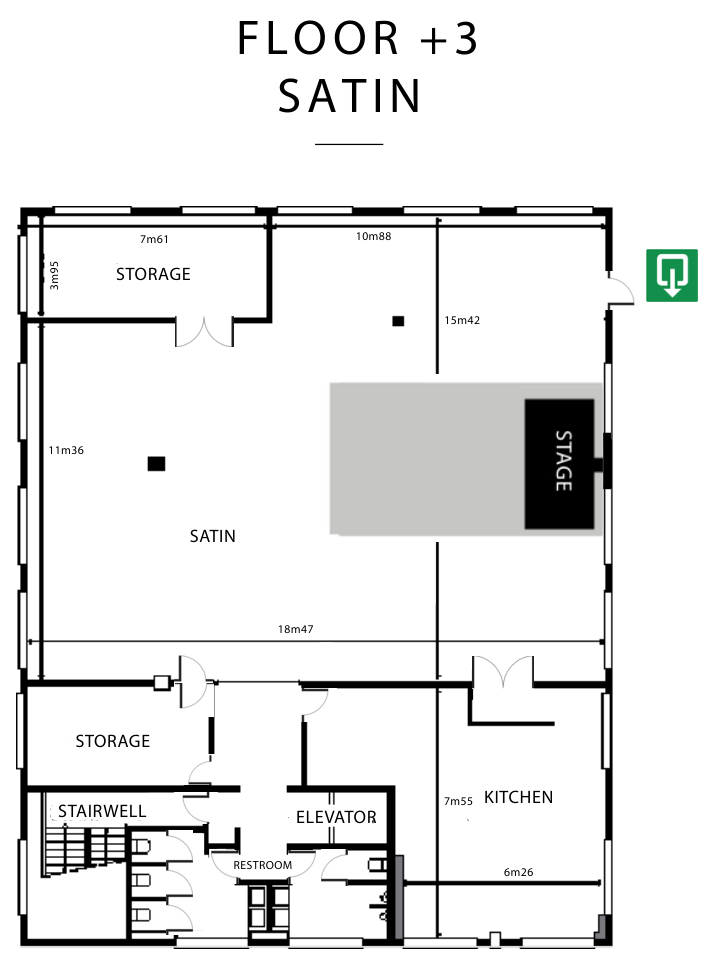
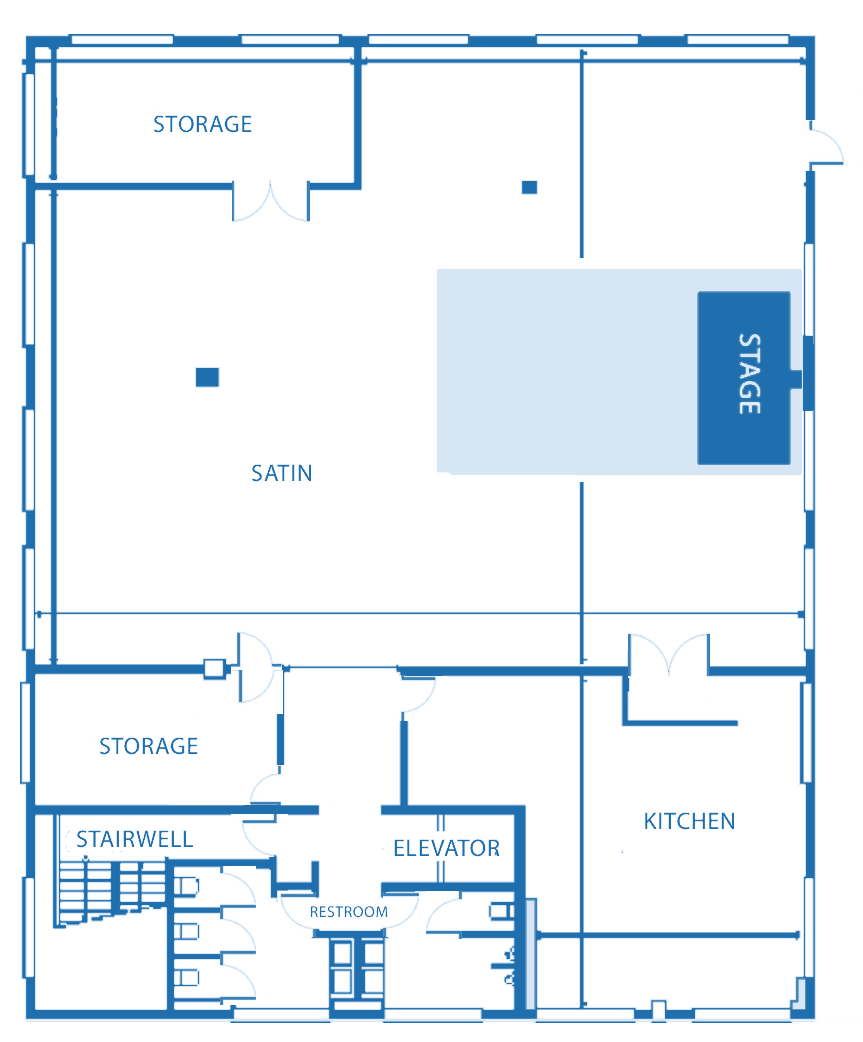
Guide: venue floor plans recolored blue, guest list copy, no laptop line

diff --git a/guide/index.html b/guide/index.html
@@ -61,17 +61,19 @@ ul.plain { padding-left: 20px; margin: 0 0 12px; }
 ul.plain li { margin-bottom: 4px; }
 .note { background: var(--soft); border-radius: 10px; padding: 14px 18px; margin: 12px 0; }
 .tbd { background: var(--tbd); color: var(--tbd-ink); border-radius: 4px; padding: 1px 6px; font-size: .9em; }
-.plans { display: grid; grid-template-columns: 1fr 1fr; gap: 16px; margin: 16px 0; align-items: end; }
+.plans { display: grid; grid-template-columns: 1fr; gap: 20px; margin: 16px 0; }
+.plans figure:last-child img { max-width: 70%; margin: 0 auto; }
 .plans figure { margin: 0; }
-.fp { display: block; width: 100%; height: auto; border: 1px solid var(--line); border-radius: 10px; padding: 10px; background: var(--card); }
-.fp rect, .fp polygon { fill: none; stroke: var(--blue); stroke-width: 4; stroke-linejoin: round; }
-.fp .hl { fill: var(--soft); }
-.fp .stage { fill: var(--blue); }
-.fp text { fill: var(--ink-3); font: 500 22px var(--font); text-anchor: middle; }
-.fp text.big { fill: var(--navy); font-weight: 600; font-size: 26px; }
-.fp text.stg { fill: var(--sheet); font-size: 20px; font-weight: 600; writing-mode: vertical-rl; }
+.plans img { display: block; width: 100%; height: auto; border: 1px solid var(--line); border-radius: 10px; padding: 12px; background: #fff; }
 .plans figcaption { color: var(--ink-2); font-size: .85rem; margin-top: 6px; text-align: center; }
 @media (max-width: 600px) { .plans { grid-template-columns: 1fr; } }
+.label { font-size: 0.75rem; font-weight: 700; letter-spacing: 0.12em; text-transform: uppercase; color: var(--ink-3); margin: 28px 0 4px; }
+.label:first-of-type { margin-top: 0; }
+.people { list-style: none; padding: 0; margin: 0; display: grid; grid-template-columns: 1fr 1fr; column-gap: 28px; }
+.people li { padding: 10px 0; border-bottom: 1px solid var(--line); }
+.people b { display: block; font-weight: 600; }
+.people span { color: var(--ink-2); font-size: 0.88rem; }
+@media (max-width: 600px) { .people { grid-template-columns: 1fr; } }
 footer { margin-top: 56px; padding-top: 16px; border-top: 1px solid var(--line); color: var(--ink-3); font-size: .85rem; text-align: center; }
 </style>
 </head>
@@ -88,6 +90,7 @@ footer { margin-top: 56px; padding-top: 16px; border-top: 1px solid var(--line);
   <li><a href="#arrival">Getting there</a></li>
   <li><a href="#registration">Arrival</a></li>
   <li><a href="#program">Program</a></li>
+  <li><a href="#people">Guest list</a></li>
   <li><a href="#food">Food &amp; drinks</a></li>
   <li><a href="#practical">Practical</a></li>
   <li><a href="#help">Getting help</a></li>
@@ -107,8 +110,8 @@ footer { margin-top: 56px; padding-top: 16px; border-top: 1px solid var(--line);
 <p>Enter at Fabriekstraat 55-59. The registration desk is on the ground floor, where you'll pick up your name badge. You can leave your coat and luggage at the cloakroom next to it; volunteers hand out tickets.</p>
 <p>The talks, workshop, panel and dinner are in <b>Satin, on the 3rd floor</b>. There's a lift to all floors.</p>
 <div class="plans">
-  <figure><svg class="fp" viewBox="20 215 800 845" role="img" aria-label="Ground floor plan"><rect class="" x="38" y="232" width="234" height="140"/><rect class="" x="272" y="232" width="100" height="140"/><rect class="" x="372" y="232" width="233" height="140"/><rect class="hl" x="38" y="372" width="567" height="416"/><rect class="" x="38" y="640" width="252" height="148"/><rect class="" x="605" y="402" width="125" height="178"/><rect class="hl" x="605" y="580" width="125" height="136"/><rect class="" x="730" y="402" width="70" height="314"/><rect class="hl" x="400" y="788" width="185" height="257"/><rect class="" x="585" y="768" width="215" height="167"/><rect class="" x="38" y="795" width="112" height="145"/><rect class="hl" x="230" y="795" width="165" height="55"/><rect class="" x="150" y="850" width="245" height="90"/><text class="" x="155" y="310"><tspan x="155" dy="0">Office</tspan></text><text class="" x="488" y="310"><tspan x="488" dy="0">Boardroom</tspan></text><text class="big" x="320" y="546"><tspan x="320" dy="0">Soie</tspan><tspan x="320" dy="28">welcome coffee</tspan></text><text class="" x="164" y="722"><tspan x="164" dy="0">Kitchen</tspan></text><text class="" x="667" y="500"><tspan x="667" dy="0">Tech</tspan></text><text class="big" x="667" y="641"><tspan x="667" dy="0">Cloak-</tspan><tspan x="667" dy="28">room</tspan></text><text class="big" x="492" y="901"><tspan x="492" dy="0">Entrance</tspan><tspan x="492" dy="28">registration</tspan></text><text class="" x="692" y="860"><tspan x="692" dy="0">Restrooms</tspan></text><text class="" x="94" y="875"><tspan x="94" dy="0">Stairs</tspan></text><text class="big" x="312" y="830"><tspan x="312" dy="0">Lift</tspan></text><text class="" x="272" y="900"><tspan x="272" dy="0">Tech</tspan></text></svg><figcaption>Ground floor: entrance, registration, cloakroom, welcome coffee in Soie</figcaption></figure>
-  <figure><svg class="fp" viewBox="10 195 615 765" role="img" aria-label="3rd floor plan"><polygon class="hl" points="272,208 610,208 610,685 22,685 22,322 272,322"/><rect class="" x="22" y="208" width="250" height="114"/><rect class="stage" x="525" y="400" width="70" height="128"/><rect class="" x="22" y="685" width="188" height="100"/><rect class="" x="210" y="685" width="260" height="140"/><rect class="" x="470" y="685" width="140" height="260"/><rect class="" x="22" y="785" width="108" height="160"/><polygon class="hl" points="130,825 290,825 290,850 470,850 470,945 130,945"/><rect class="hl" x="290" y="785" width="105" height="65"/><text class="" x="147" y="272"><tspan x="147" dy="0">Storage</tspan></text><text class="big" x="300" y="456"><tspan x="300" dy="0">Satin</tspan><tspan x="300" dy="28">talks, panel, dinner</tspan></text><text class="stg" x="560" y="470"><tspan x="560" dy="0">Stage</tspan></text><text class="" x="116" y="742"><tspan x="116" dy="0">Storage</tspan></text><text class="" x="540" y="815"><tspan x="540" dy="0">Kitchen</tspan></text><text class="" x="76" y="872"><tspan x="76" dy="0">Stairs</tspan></text><text class="big" x="342" y="825"><tspan x="342" dy="0">Lift</tspan></text><text class="big" x="300" y="900"><tspan x="300" dy="0">Restrooms</tspan></text></svg><figcaption>3rd floor: Satin (talks, workshop, panel, dinner)</figcaption></figure>
+  <figure><img src="floor-0.png" alt="Ground floor plan" loading="lazy"><figcaption>Ground floor: entrance, registration, cloakroom, welcome coffee in Soie</figcaption></figure>
+  <figure><img src="floor-3.png" alt="3rd floor plan" loading="lazy"><figcaption>3rd floor: Satin (talks, workshop, panel, dinner)</figcaption></figure>
 </div>
 
 <h2 id="program">Program</h2>
@@ -127,7 +130,40 @@ footer { margin-top: 56px; padding-top: 16px; border-top: 1px solid var(--line);
   <div class="slot"><div class="t">19:30 - 21:30</div><div class="c"><b>Dinner</b></div></div>
   <div class="slot minor"><div class="t">21:30 - 22:00</div><div class="c">Venue closing</div></div>
 </div>
-<p style="margin-top:12px">For the workshop, there's no need to bring a laptop. The full guest list is on the <a href="/#people">event page</a>.</p>
+
+<h2 id="people">Guest list</h2>
+  <div class="label">Speakers</div>
+  <ul class="people">
+    <li><b>Charles Martinet</b><span>Oxford Martin AI Governance Initiative</span></li>
+    <li><b>Duncan Eddy</b><span>Stanford University</span></li>
+    <li><b>Nicoleta Kyosovska</b><span>Centre for European Policy Studies (CEPS)</span></li>
+    <li><b>Friederike Grosse-Holz</b><span>European AI Office, European Commission</span></li>
+    <li><b>Sergey Lagodinsky</b><span>MEP, Greens/EFA</span></li>
+    <li><b>Daan Juijn</b><span>Director of Research, Arq Foundation</span></li>
+  </ul>
+  <div class="label">Guests</div>
+  <ul class="people">
+    <li><b>Virginie Joron</b><span>Member of the European Parliament</span></li>
+    <li><b>Kim van Sparrentak</b><span>Member of the European Parliament, Greens/EFA</span></li>
+    <li><b>Diego León</b><span>Legal Adviser, Office of the Secretary General, European Data Protection Supervisor</span></li>
+    <li><b>Benjamin Bögel</b><span>Cabinet of the Commission EVP for Tech Sovereignty, Security and Democracy</span></li>
+    <li><b>Anja Wyrobek</b><span>Lead Digital Advisor to MEP Birgit Sippel</span></li>
+    <li><b>Elsa Donnat</b><span>Legal Officer, European AI Office, European Commission</span></li>
+    <li><b>Isabel Barberá</b><span>AI Safety Unit Lead, Dutch Data Protection Authority</span></li>
+    <li><b>Ruxandra Deaconu</b><span>Council of Europe Liaison Office to the EU</span></li>
+    <li><b>Bengüsu Özcan</b><span>Arq Foundation</span></li>
+    <li><b>Naci Cankaya</b><span>Technical Governance Researcher, MIRI</span></li>
+    <li><b>Eliška Andrš</b><span>Policy Researcher, Future of Life Institute</span></li>
+    <li><b>Thomas Lilamand</b><span>Senior Research Scholar, Institute for Law &amp; AI</span></li>
+    <li><b>Samuel Goodger</b><span>Policy Analyst, European Policy Centre</span></li>
+    <li><b>Arslan Jurion</b><span>CeSIA (French Center for AI Safety)</span></li>
+    <li><b>Jonathan Schmidt</b><span>The Future Society</span></li>
+    <li><b>Sven Herrmann</b><span>European AI Governance, The Future Society</span></li>
+    <li><b>Calvin Duff</b><span>Pour Demain Europe</span></li>
+    <li><b>Jimmy Farrell</b><span>Astralis Foundation</span></li>
+    <li><b>Mattias Bjärnemalm</b><span>Secretary General, European Pirates</span></li>
+    <li><b>Jelle Donders</b><span>Strategic Advisor on AI</span></li>
+  </ul>
 
 <h2 id="food">Food &amp; drinks</h2>
 <p>Coffee, tea and snacks are available from 13:30 and during the breaks. Dinner is a buffet from 19:30, catered by Artfood.</p>
